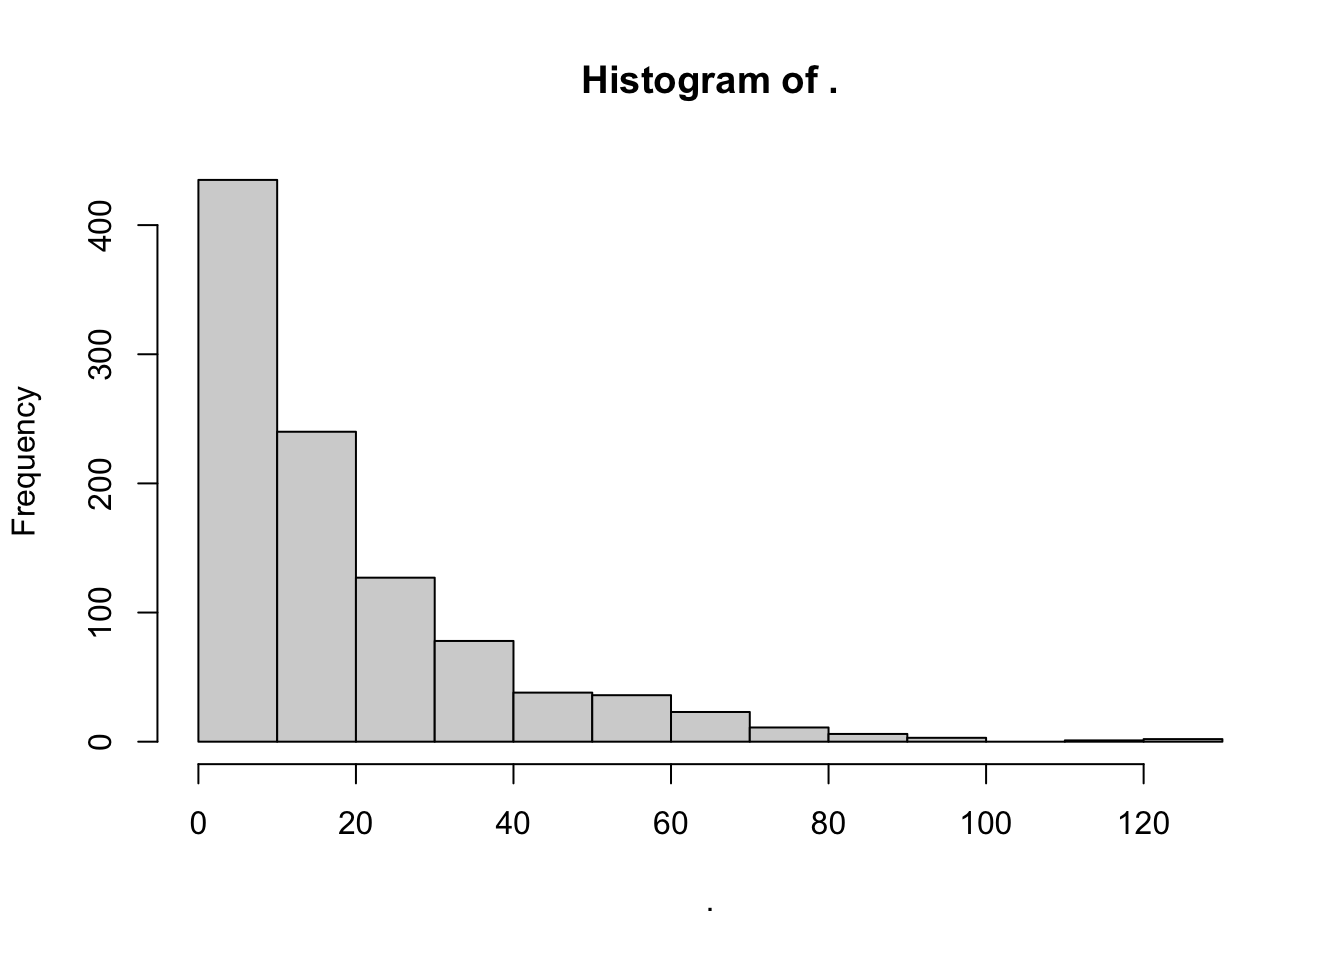
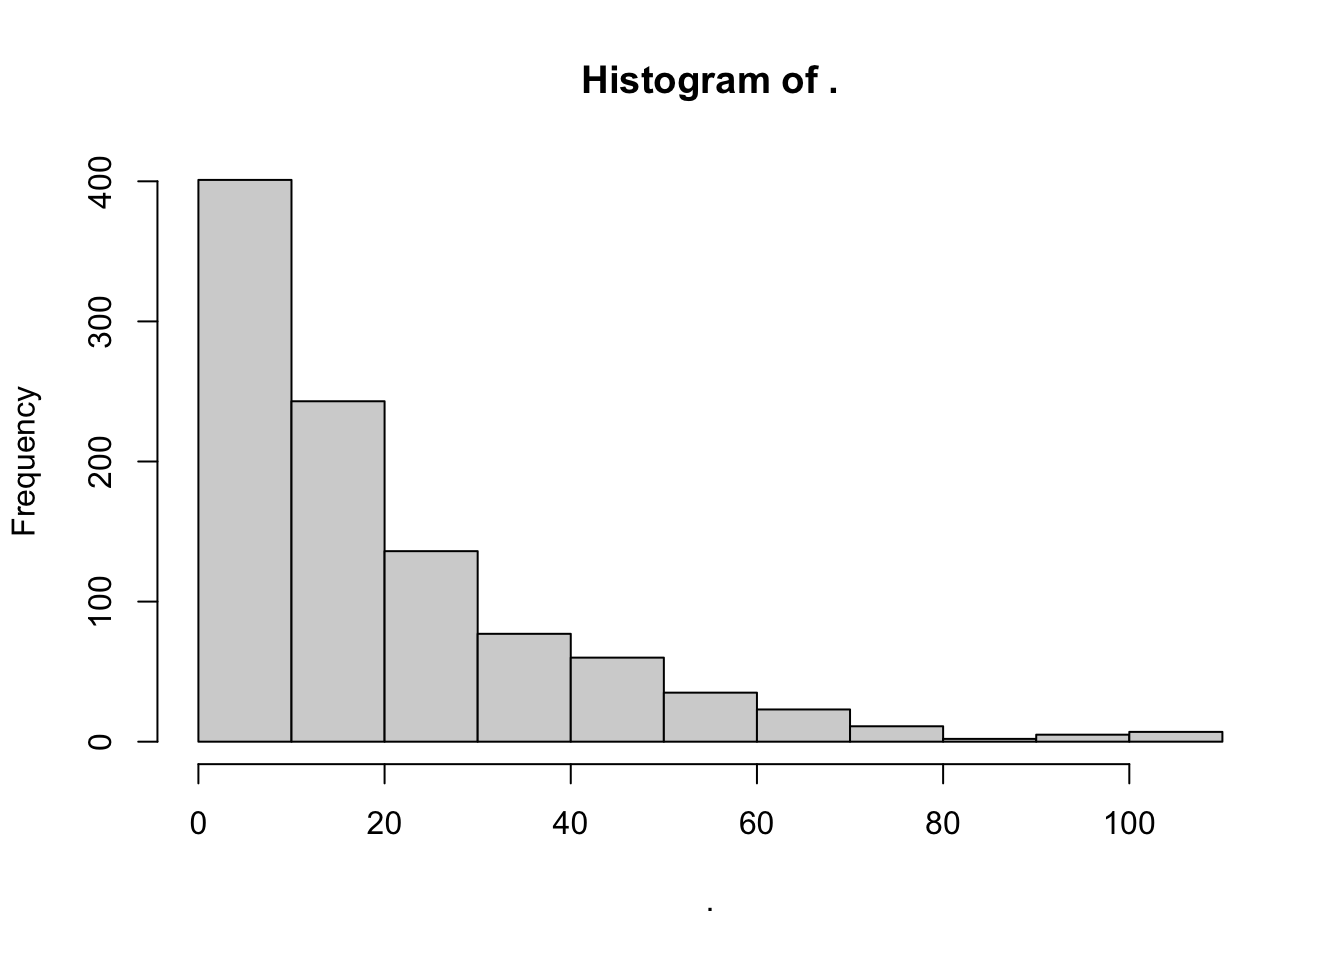
ちょっと修正

diff --git a/docs/post/2025-08-03-/index.html b/docs/post/2025-08-03-/index.html
@@ -128,9 +128,9 @@
 
                   
                   <span class="file-info-divider"></span>
-                  Modified <relative-time datetime="Tue, 05 Aug 2025 01:00:54 &#43;0900"
+                  Modified <relative-time datetime="Tue, 05 Aug 2025 01:14:22 &#43;0900"
                     class="no-wrap">
-                    Tue, 05 Aug 2025 01:00:54 &#43;0900</relative-time>
+                    Tue, 05 Aug 2025 01:14:22 &#43;0900</relative-time>
                   
                 </div>
               </div>
@@ -160,7 +160,7 @@
                         </div>
                       </div>
                     </details-menu>
-                      7716 Words
+                      7756 Words
                     
 
                   </div>
@@ -358,25 +358,25 @@ DF_FR_rate %&gt;% ggplot(
 <p>グラフを見てみましょう。n = 7くらいで反応率bは3回/秒という最大の値になります。仮にPRPが出現したとしても連打モードに入った時の反応率は3回/秒と同じだと仮定をします。すると、このグラフのn&gt;7でのほぼ線形の反応率の減少は、PRPの長さによるものと解釈できるかもしれません。まあ、今回引用している <span class="citation">Killeen and Sitomer (<a href="#ref-Killeen2003">2003</a>)</span> の中ではPauseの話をしてはいないんですけどね。</p>
 <p>続けてグラフを見ると、FR200を超えると、反応率が0になってしまいます。つまり反応しなくなったということですね。このFRスケジュールで反応しなくなる比率というのが特異的活性化aと一致するのではないかという指摘を <span class="citation">Killeen and Sitomer (<a href="#ref-Killeen2003">2003</a>)</span> はしています。</p>
 <p>この特異的活性化aというのは、個体ごとに、あるいは、強化子ごとに、またその相互作用ごとに異なるようです。行動分析学者がブチギレそうな表現ですがわかりやすく書くならば、個々人で餌ごとに好き嫌いがあり、その好き嫌いによって活性化係数が変わるのではないだろうかという考えですね。</p>
-<p>この活性化係数が変わることによって、二つの影響を及ぼします。一つは特異的活性化という名前の通り、その強化子がより好ましいのであれば（aがより大きいのであれば）、<a href="https://takuto-psych.github.io/post/2025-06-23/">第一の原理</a>で示したように、我々はより活発・覚醒的になるのかもしれません。確かに、より好きなものが与えられたらより活発になりそうですね。もう一つの影響というのが、FR<sub>n</sub>（もしくはPR<sub>n</sub>）スケジュールにおいて、その提示される強化子がより好ましいものであれば。より大きな比率nでも我慢して他の競合する行動に心を奪われずにレバーを押すことができるということなのかもしれません。たとえば、ヘロインなんかがもらえるなら、FR<sub>1000</sub> でも永遠にレバーを押すシドヴィシャスは居そうですね（晩年はメサドンで我慢しようと彼も頑張ってはいたんですけどね）。その場合、しどヴィシャスにとってのヘロインの特異的活性化aは 1000になると捉えられそうですね。</p>
+<p>この活性化係数が変わることによって、二つの影響を及ぼします。一つは特異的活性化という名前の通り、その強化子がより好ましいのであれば（aがより大きいのであれば）、<a href="https://takuto-psych.github.io/post/2025-06-23/">第一の原理</a>で示したように、我々はより活発・覚醒的になるのかもしれません。確かに、より好きなものが与えられたらより活発になりそうですね。もう一つの影響というのが、FR<sub>n</sub>（もしくはPR<sub>n</sub>）スケジュールにおいて、その提示される強化子がより好ましいものであれば。より大きな比率nでも我慢して他の競合する行動に心を奪われずにレバーを押すことができるということなのかもしれません。たとえば、ヘロインなんかがもらえるなら、FR<sub>1000</sub> でも永遠にレバーを押すシドヴィシャスは居そうですね（晩年はメサドンで我慢しようと彼も頑張ってはいたんですけどね）。シドヴィシャスにとってのヘロインの特異的活性化aは1000というわけです。</p>
 <p>ここまでで重要なことというのはFRスケジュールにおいて、nが大きくなると結合係数のC<sub>FRn</sub> は1に近づくため、ある一定の最高速度を超えたら、nが増えると直線的に反応率が減ってしまうということです。また、この反応率が0に、つまり反応しないようなnの数になる条件というのは、その強化子の持つ特異的活性化aと同値以上になるような時ということです。</p>
 </div>
 <div id="vrスケジュールとはfrスケジュールを組み合わせたもの" class="section level2">
 <h2>VRスケジュールとはFRスケジュールを組み合わせたもの</h2>
-<p>すごいどうでもいい余談なんですが、僕修士まで社会心理学に属していたためどんなふうに比率を設定していたのかを知らなかったんですよね。当然スケジュール学習に特有の動物や人間の挙動をグラフで見たことはありますけどね。博士に入ってから、VRスケジュールにおいて、必要反応数を指数乱数から取ってきているということを知りました。以下のグラフのイメージです。</p>
+<p>すごいどうでもいい余談というか言い訳なんですが、僕修士まで社会心理学に属していたため、variableなスケジュールでどんなふうに比率を設定していたのかという学習心理学・行動分析学的な常識を知らなかったんですよね。当然スケジュール学習に特有の動物や人間の挙動をグラフで見たことはありますけどね。博士に入ってから、VRスケジュールにおいて、必要反応数を指数乱数から取ってきているということを知りました。以下のグラフのイメージです。</p>
 <pre class="r"><code>#1000回レバー押して1セッション終わりという環境を想像。ちょっと酷な気はするけど。
 VR_array &lt;- rexp(1000, rate = 1/20) %&gt;% round(.) ##この計算だと0回押して強化子が出る謎環境も生じるけど、修正面倒なので一旦このままで。
 
 ##平均何回押すと強化子出るか
 VR_array %&gt;% mean(.)</code></pre>
-<pre><code>## [1] 19.01</code></pre>
+<pre><code>## [1] 19.433</code></pre>
 <pre class="r"><code>##何回押すと強化子出るかの中央値
 VR_array %&gt;% median(.)</code></pre>
-<pre><code>## [1] 13</code></pre>
+<pre><code>## [1] 15</code></pre>
 <pre class="r"><code>##ヒストグラム
 VR_array %&gt;% hist()</code></pre>
 <p><img src="https://takuto-psych.github.io/post/2025-08-03-/index_files/figure-html/unnamed-chunk-4-1.png" width="672" /></p>
-<p>これの理由が、毎回のレバー押しでの当選確率を等しくするためなんですね。たとえば、VR20なら、毎回5%で強化子を獲得できるレバー押しをさせてあげると平均的には20回に1回強化子が得られるよね？という考えになっているということです。連チャンするかもしれないし、ずっと外れてるかもしれないけど、各試行での当選確率は等しく「見える」ということで、こんな指数乱数を使っているんです。</p>
+<p>これの理由が、毎回のレバー押しでの当選確率を等しくするためなんですね。たとえば、VR20なら、毎回5%で強化子を獲得できるレバー押しをさせてあげると平均的には20回に1回強化子が得られるよ、という考えになっているということです。連チャンするかもしれないし、ずっと外れてるかもしれないけど、各試行での当選確率は等しく「見える」ということで、こんな指数乱数を使っているんです。</p>
 <p>ちなみに余談ですが、毎回のレバー押しで本当に確率抽選をしている場合（駅前のスキナー箱のレバーは一応この毎回独立の抽選になっているそうです、打たんから知らんけど。）には、Random Ratio:RRスケジュールと呼ばれるそうです。配列の要素を十分にシャッフルされているVR20でもRR20でも、スキナー箱に放り込まれた個体から見ると違いはわからないでしょうけどね。</p>
 <pre class="r"><code>random_ratio_fun &lt;- function(
   p = 1/20
@@ -406,14 +406,14 @@ RR_array &lt;- random_ratio_fun()
 
 ##平均何回押すと強化子出るか
 RR_array %&gt;% mean(.)</code></pre>
-<pre><code>## [1] 18.831</code></pre>
+<pre><code>## [1] 20.231</code></pre>
 <pre class="r"><code>##何回押すと強化子出るかの中央値
 RR_array %&gt;% median(.)</code></pre>
-<pre><code>## [1] 13</code></pre>
+<pre><code>## [1] 14</code></pre>
 <pre class="r"><code>##ヒストグラム
 RR_array %&gt;% hist()</code></pre>
 <p><img src="https://takuto-psych.github.io/post/2025-08-03-/index_files/figure-html/unnamed-chunk-5-1.png" width="672" /></p>
-<p>さて、こんなVR<sub>n</sub>スケジュールにおける結合係数C<sub>VRn</sub> をどのように出すかについて考えてみます。まずはVRスケジュールというものの本質的な部分を考えます。VR<sub>n</sub>スケジュールというのは、FR<sub>1</sub>, FR<sub>2</sub>, FR<sub>3</sub>, FR<sub>4</sub>,…FR<sub>n</sub>…,FR<sub>∞</sub>,というスケジュールが組み合わさって構成されていると考えられます。ここで∞というふうな添字が存在するのは、VR<sub>n</sub>スケジュールでは、毎回1/nの確率で抽選をしているだけで、その繰り返しの先には、理論上は∞回レバーを押しても強化子が出てこない可能性があるからです。実際のスキナー箱での実験では、有限回数に収めた環境を設定するでしょうから、あくまで理論上の話です。</p>
+<p>さて、こんなVR<sub>n</sub>スケジュールにおける結合係数C<sub>VRn</sub> をどのように出すかについて考えてみます。まずはVRスケジュールというものの本質的な部分を考えます。VR<sub>n</sub>スケジュールというのは、FR<sub>1</sub>, FR<sub>2</sub>, FR<sub>3</sub>, FR<sub>4</sub>,…FR<sub>n</sub>…,FR<sub>∞</sub>,というスケジュールが組み合わさって構成されていると考えられます。ここで∞というふうな添字が存在するのは、VR<sub>n</sub>スケジュールでは、毎回1/nの確率で抽選をしているだけで、その繰り返しの先には、理論上は∞回レバーを押しても強化子が出てこない可能性があるからです。実際のスキナー箱での実験では、有限回数に収めた環境を設定するでしょうから、あくまで無限というのは理論上の話ですけどね。</p>
 <p>つまり、VRスケジュールでは、1回レバーを押して強化子を提示されるという経験や2回レバーを押して強化子が提示されるという経験というのが集約されて、C<sub>VRn</sub> が出来上がるという考え方になるわけですね。この集約の仕方については注意が必要です。VRスケジュールは指数乱数の設定になっているわけですが、その真意は各試行での当選確率を一定にしたいからです。だから、その各試行での当選確率分の重みづけをした期待値に集約することになります。計算し終えると以下の式になります。ちょっとこの式の導出過程が論文内で書かれていなかったのでわからないですが、最初の式を立式できたらΣの足し算を展開していくと出せると思います。立式できたら追記します。</p>
 <p><span class="math display">\[
 C_{VR_n} = \frac{n}{n + \frac{1-\beta}{\beta}}

diff --git a/docs/profile/index.html b/docs/profile/index.html
@@ -194,9 +194,9 @@ jsPsych
 
                   
                   <span class="file-info-divider"></span>
-                  Modified <relative-time datetime="Tue, 05 Aug 2025 01:00:54 &#43;0900"
+                  Modified <relative-time datetime="Tue, 05 Aug 2025 01:14:22 &#43;0900"
                     class="no-wrap">
-                    Tue, 05 Aug 2025 01:00:54 &#43;0900</relative-time>
+                    Tue, 05 Aug 2025 01:14:22 &#43;0900</relative-time>
                   
                 </div>
               </div>

diff --git a/docs/post/2022-03-06-/index.html b/docs/post/2022-03-06-/index.html
@@ -128,9 +128,9 @@
 
                   
                   <span class="file-info-divider"></span>
-                  Modified <relative-time datetime="Tue, 05 Aug 2025 01:00:45 &#43;0900"
+                  Modified <relative-time datetime="Tue, 05 Aug 2025 01:14:13 &#43;0900"
                     class="no-wrap">
-                    Tue, 05 Aug 2025 01:00:45 &#43;0900</relative-time>
+                    Tue, 05 Aug 2025 01:14:13 &#43;0900</relative-time>
                   
                 </div>
               </div>

diff --git a/docs/post/2022-03-12-/index.html b/docs/post/2022-03-12-/index.html
@@ -128,9 +128,9 @@
 
                   
                   <span class="file-info-divider"></span>
-                  Modified <relative-time datetime="Tue, 05 Aug 2025 01:00:47 &#43;0900"
+                  Modified <relative-time datetime="Tue, 05 Aug 2025 01:14:16 &#43;0900"
                     class="no-wrap">
-                    Tue, 05 Aug 2025 01:00:47 &#43;0900</relative-time>
+                    Tue, 05 Aug 2025 01:14:16 &#43;0900</relative-time>
                   
                 </div>
               </div>

diff --git a/docs/post/2022-03-15-/index.html b/docs/post/2022-03-15-/index.html
@@ -128,9 +128,9 @@
 
                   
                   <span class="file-info-divider"></span>
-                  Modified <relative-time datetime="Tue, 05 Aug 2025 01:00:48 &#43;0900"
+                  Modified <relative-time datetime="Tue, 05 Aug 2025 01:14:17 &#43;0900"
                     class="no-wrap">
-                    Tue, 05 Aug 2025 01:00:48 &#43;0900</relative-time>
+                    Tue, 05 Aug 2025 01:14:17 &#43;0900</relative-time>
                   
                 </div>
               </div>

diff --git a/docs/post/2025-06-13-/index.html b/docs/post/2025-06-13-/index.html
@@ -128,9 +128,9 @@
 
                   
                   <span class="file-info-divider"></span>
-                  Modified <relative-time datetime="Tue, 05 Aug 2025 01:00:49 &#43;0900"
+                  Modified <relative-time datetime="Tue, 05 Aug 2025 01:14:17 &#43;0900"
                     class="no-wrap">
-                    Tue, 05 Aug 2025 01:00:49 &#43;0900</relative-time>
+                    Tue, 05 Aug 2025 01:14:17 &#43;0900</relative-time>
                   
                 </div>
               </div>

diff --git a/docs/post/2025-06-23-/index.html b/docs/post/2025-06-23-/index.html
@@ -128,9 +128,9 @@
 
                   
                   <span class="file-info-divider"></span>
-                  Modified <relative-time datetime="Tue, 05 Aug 2025 01:00:50 &#43;0900"
+                  Modified <relative-time datetime="Tue, 05 Aug 2025 01:14:19 &#43;0900"
                     class="no-wrap">
-                    Tue, 05 Aug 2025 01:00:50 &#43;0900</relative-time>
+                    Tue, 05 Aug 2025 01:14:19 &#43;0900</relative-time>
                   
                 </div>
               </div>

diff --git a/docs/post/2025-07-11-/index.html b/docs/post/2025-07-11-/index.html
@@ -128,9 +128,9 @@
 
                   
                   <span class="file-info-divider"></span>
-                  Modified <relative-time datetime="Tue, 05 Aug 2025 01:00:52 &#43;0900"
+                  Modified <relative-time datetime="Tue, 05 Aug 2025 01:14:20 &#43;0900"
                     class="no-wrap">
-                    Tue, 05 Aug 2025 01:00:52 &#43;0900</relative-time>
+                    Tue, 05 Aug 2025 01:14:20 &#43;0900</relative-time>
                   
                 </div>
               </div>

diff --git a/docs/post/2025-07-25-/index.html b/docs/post/2025-07-25-/index.html
@@ -128,9 +128,9 @@
 
                   
                   <span class="file-info-divider"></span>
-                  Modified <relative-time datetime="Tue, 05 Aug 2025 01:00:52 &#43;0900"
+                  Modified <relative-time datetime="Tue, 05 Aug 2025 01:14:20 &#43;0900"
                     class="no-wrap">
-                    Tue, 05 Aug 2025 01:00:52 &#43;0900</relative-time>
+                    Tue, 05 Aug 2025 01:14:20 &#43;0900</relative-time>
                   
                 </div>
               </div>

diff --git a/docs/researchachievement/index.html b/docs/researchachievement/index.html
@@ -128,9 +128,9 @@
 
                   
                   <span class="file-info-divider"></span>
-                  Modified <relative-time datetime="Tue, 05 Aug 2025 01:00:54 &#43;0900"
+                  Modified <relative-time datetime="Tue, 05 Aug 2025 01:14:23 &#43;0900"
                     class="no-wrap">
-                    Tue, 05 Aug 2025 01:00:54 &#43;0900</relative-time>
+                    Tue, 05 Aug 2025 01:14:23 &#43;0900</relative-time>
                   
                 </div>
               </div>

diff --git a/docs/researchinterest/index.html b/docs/researchinterest/index.html
@@ -155,9 +155,9 @@
 
                   
                   <span class="file-info-divider"></span>
-                  Modified <relative-time datetime="Tue, 05 Aug 2025 01:00:55 &#43;0900"
+                  Modified <relative-time datetime="Tue, 05 Aug 2025 01:14:24 &#43;0900"
                     class="no-wrap">
-                    Tue, 05 Aug 2025 01:00:55 &#43;0900</relative-time>
+                    Tue, 05 Aug 2025 01:14:24 &#43;0900</relative-time>
                   
                 </div>
               </div>
